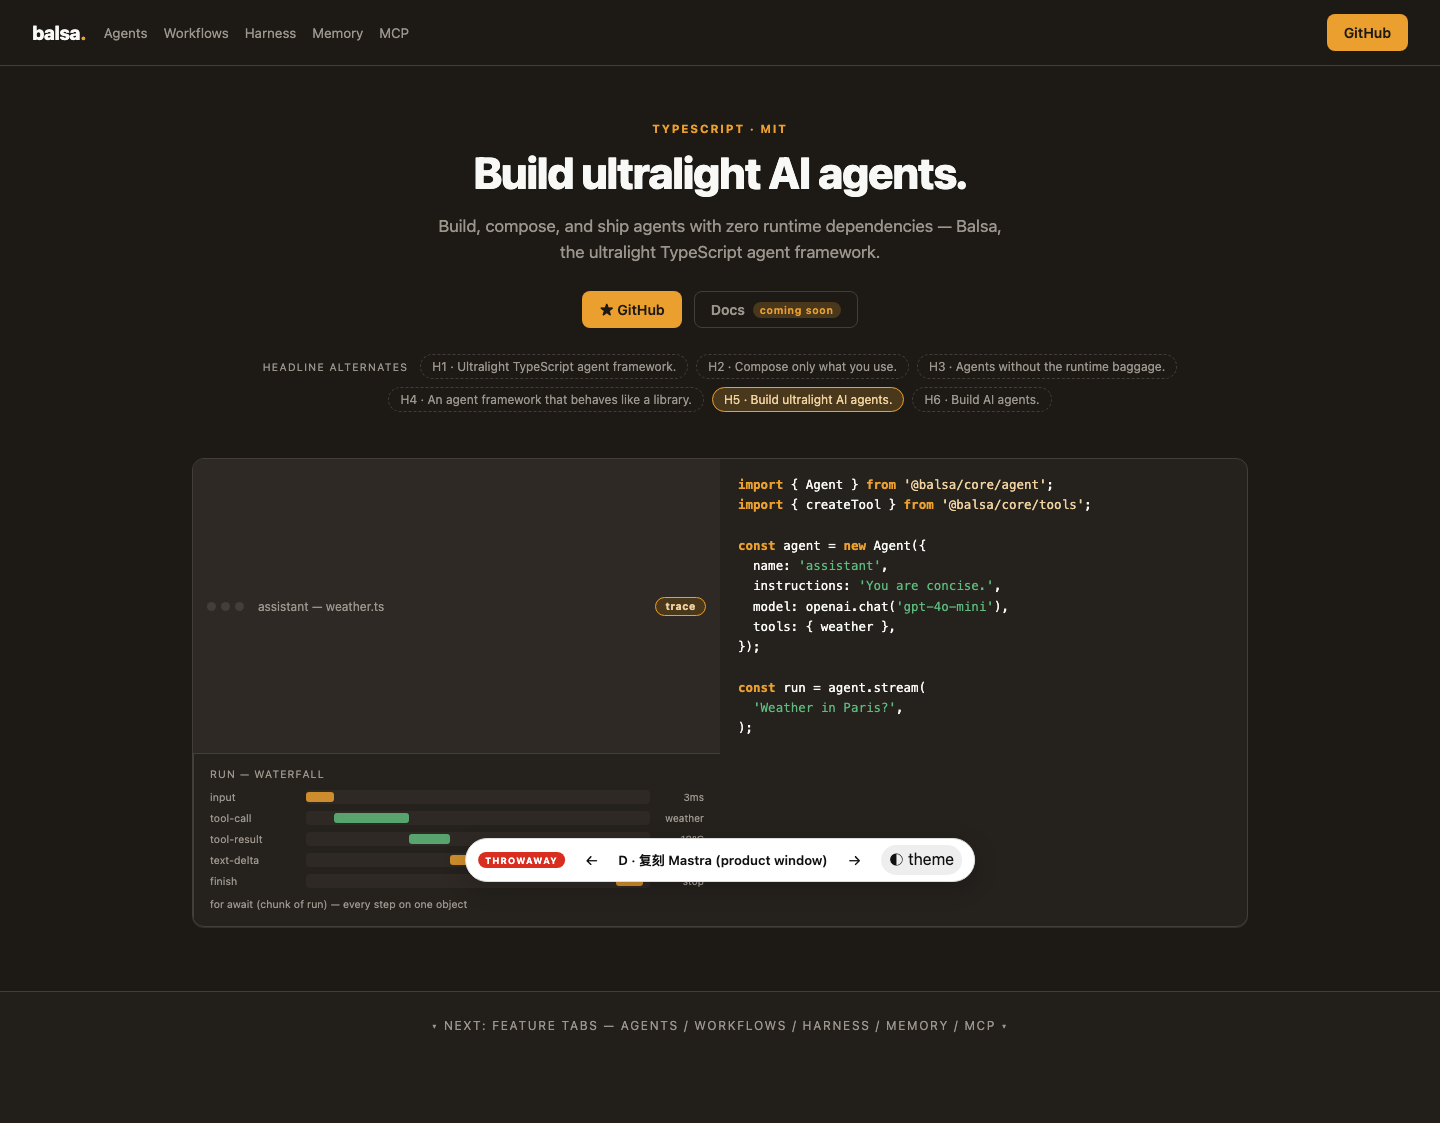
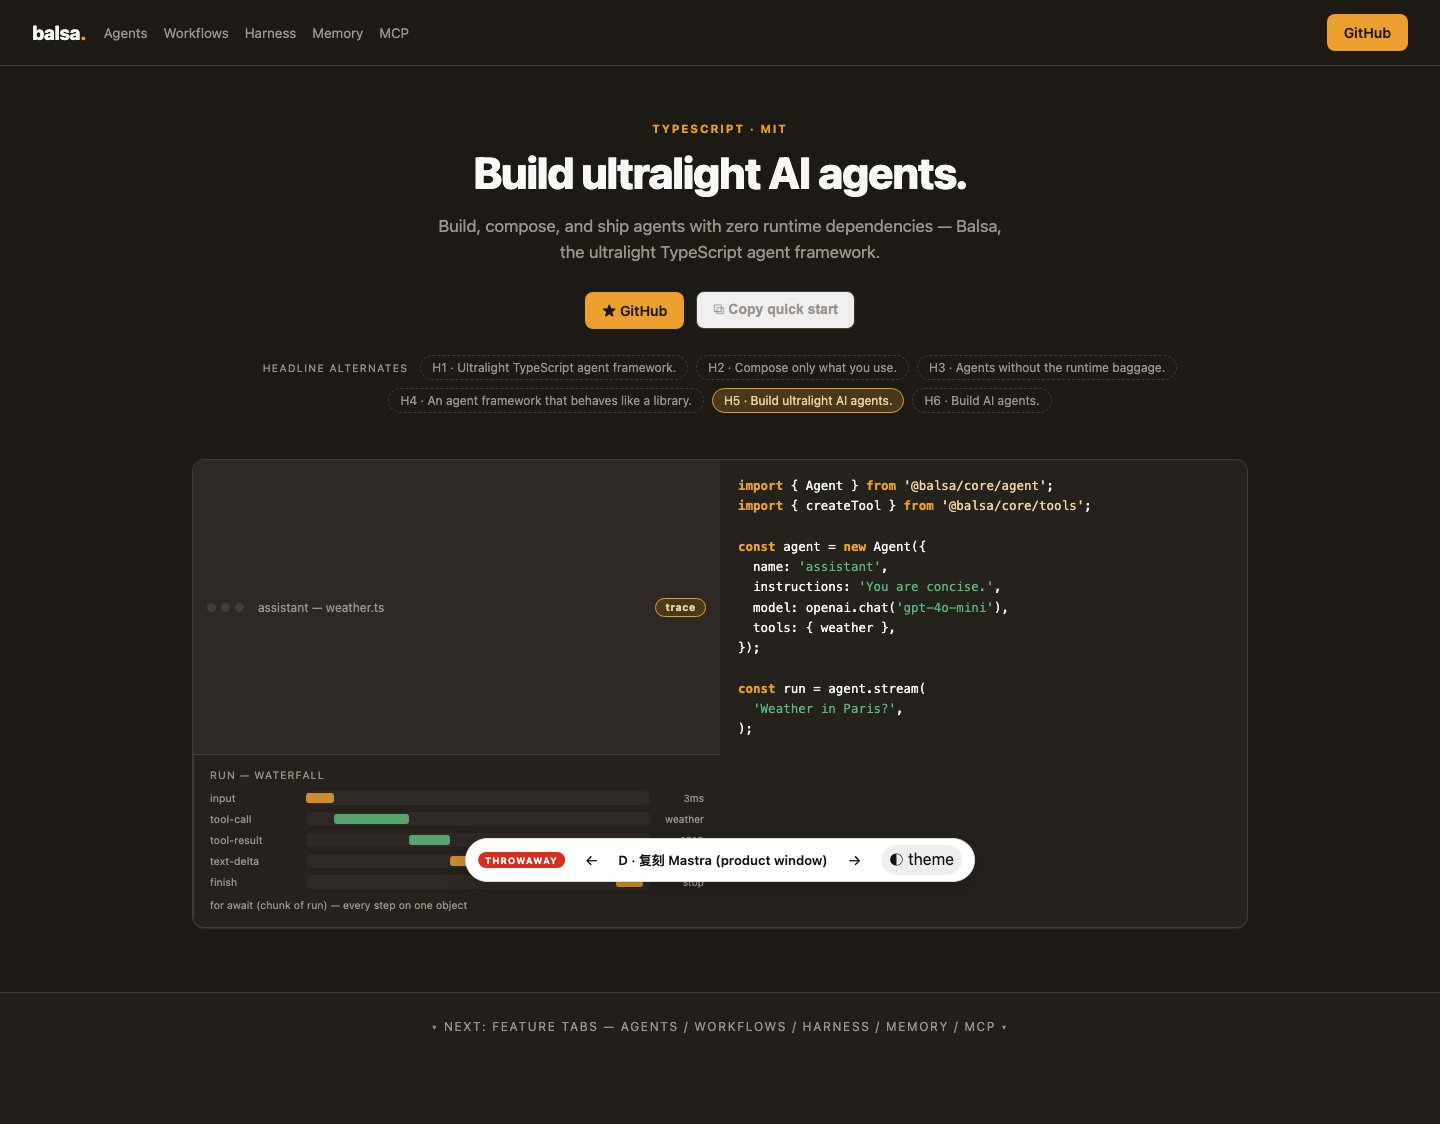
prototype(#4): winner D finalized — Copy quick start secondary CTA + verdict in README

diff --git a/prototype/hero/index.html b/prototype/hero/index.html
@@ -318,7 +318,7 @@ It's 18°C in Paris. ☀
         the ultralight TypeScript agent framework.</p>
       <div class="ctas">
         <a class="btn primary" href="#">★ GitHub</a>
-        <a class="btn ghost" href="#">Docs <b>coming soon</b></a>
+        <button class="btn ghost" type="button" data-action="copy-quickstart">⧉ Copy quick start</button>
       </div>
       <div class="copyrow" data-copy>
         <span class="lbl">headline alternates</span>
@@ -438,6 +438,17 @@ It's 18°C in Paris. ☀
   document.querySelector('[data-action="theme"]').onclick = () => {
     theme = theme === 'dark' ? 'light' : 'dark'; apply();
   };
+
+  // D: Copy quick start (winner's secondary CTA — copies the README quick start; content final in #6)
+  document.querySelectorAll('[data-action="copy-quickstart"]').forEach(btn => {
+    btn.onclick = async () => {
+      const code = `import { openai } from '@ai-sdk/openai';\nimport { Agent } from '@balsa/core/agent';\nimport { createTool } from '@balsa/core/tools';\nimport { z } from 'zod';\n\nconst weather = createTool({\n  description: 'Looks up the current weather for a city.',\n  inputSchema: z.object({ city: z.string() }),\n  execute: ({ city }) => ({ city, celsius: 18 }),\n});\n\nconst agent = new Agent({\n  name: 'assistant',\n  instructions: 'You are concise. Use the weather tool for weather questions.',\n  model: openai.chat('gpt-4o-mini'),\n  tools: { weather },\n});\n\nconst result = agent.stream('What is the weather in Paris right now?');\nfor await (const chunk of result) {\n  if (chunk.type === 'text-delta') process.stdout.write(chunk.textDelta);\n}\nconsole.log(await result.finishReason, await result.usage);`;
+      try { await navigator.clipboard.writeText(code); } catch (e) { /* file:// no perms — visual flip still shows */ }
+      const old = btn.innerHTML;
+      btn.innerHTML = '<b>copied ✓</b>';
+      setTimeout(() => { btn.innerHTML = old; }, 1500);
+    };
+  });
 
   const q = new URLSearchParams(location.search).get('variant');
   if (VARIANTS.some(v => v.key === q)) idx = VARIANTS.findIndex(v => v.key === q);

diff --git a/prototype/hero/README.md b/prototype/hero/README.md
@@ -10,7 +10,7 @@ Three structurally different hero variants on the decided brand direction
 | `a` | 代码卡 | split: text → editor card w/ README quick start, annotated ("one import per subsystem", "a tool is four fields") | H2 `Compose only what you use.` |
 | `b` | 终端 | stacked: centered headline → terminal card (`npm install` → run), amber `0.5.0 not yet on npm` tension badge | H3 `Agents without the runtime baggage.` |
 | `c` | 清单卡 | mirrored: import-map manifest (subpath-export chips, ghosted = not imported) → text | H1 `Ultralight TypeScript agent framework.` |
-| `d` | 复刻 Mastra | centered stack + wide product window: code pane + trace-waterfall pane (`input → tool-call → tool-result → text-delta → finish`) | H5 `Build ultralight AI agents.` |
+| `d` | 复刻 Mastra ★winner | centered stack + wide product window: code pane + trace-waterfall pane (`input → tool-call → tool-result → text-delta → finish`); CTA = GitHub + **Copy quick start** | H5 `Build ultralight AI agents.` |
 
 All variants carry clickable **headline alternates** (H1–H6, README-grounded) so copy can be mixed
 across forms — click a chip to swap headline + sub live, per variant. H6 (`Build AI agents.`) is a
@@ -30,5 +30,9 @@ cd prototype/hero && python3 -m http.server 4174
 
 Copy constraints honored: absolute facts only (`0 runtime dependencies`, CI byte budget);
 no KB / test numbers (ADR-0001); no competitor names; no RAG/evals claims.
+
+## Verdict (2026-10-02, closes #4)
+
+**D 复刻 Mastra + H5 + 仿 Copy quick start.** 主 CTA GitHub；次 CTA「Copy quick start」（复制 README quick start，复制内容终稿随 #6）；0.5.0 发布前全站不出现 install 类命令（含 git clone）。
 
 Not production code. The floating bar never ships. Do not fold into the real site.
